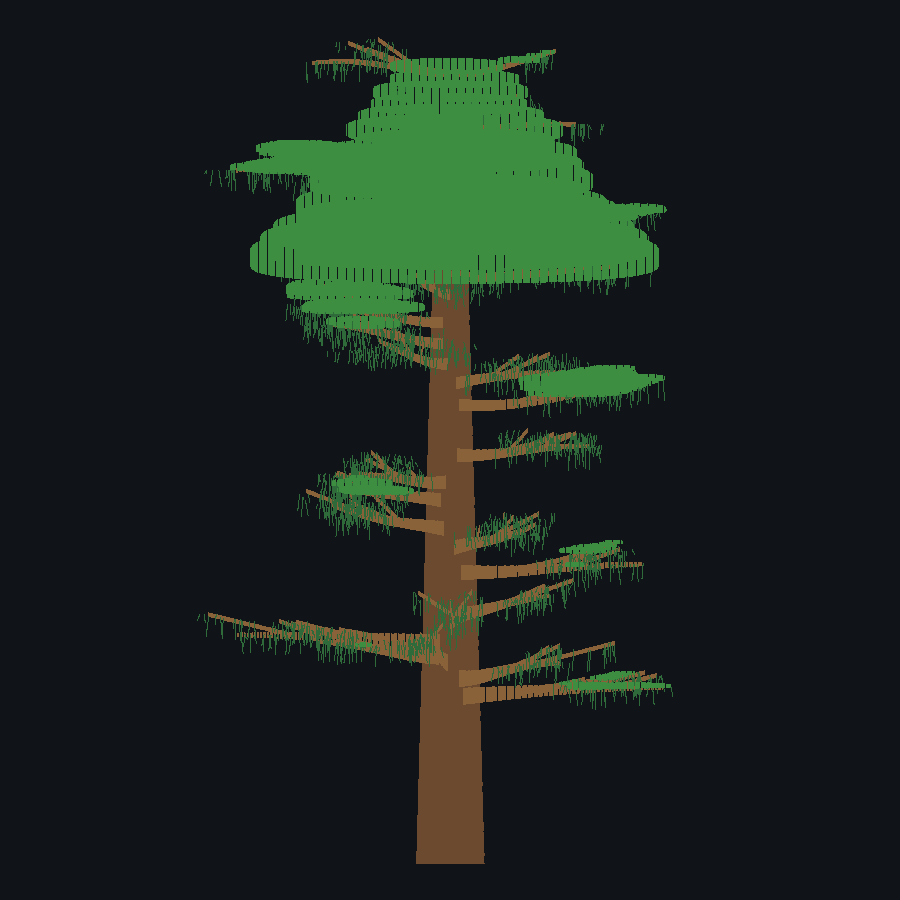
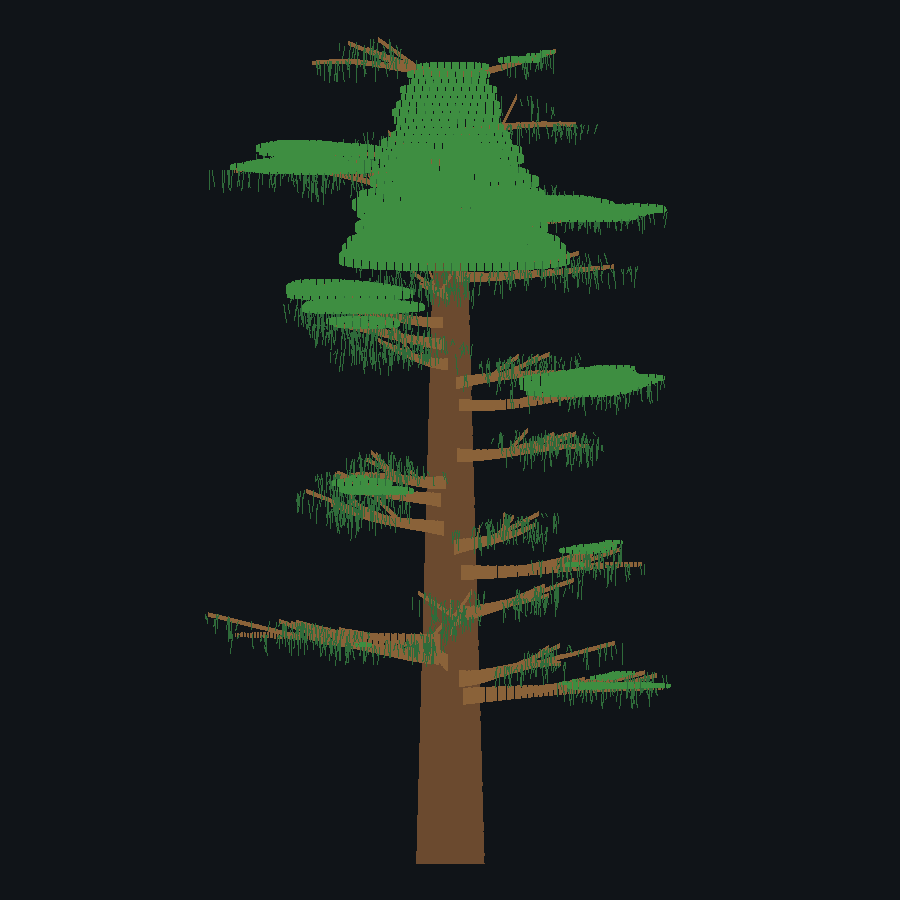
fix(worldtree): a COROA ficou fora da reforma da copa, e virou 64% dela
Relato de jogo: "proximo ao topo da arvore ha grandes camadas de folhas no
tronco, essa parte esta recebendo regras de folhagem diferente?"

Estava. Quando a folhagem dos galhos migrou para a ponta e encolheu 64%, as
dezesseis prateleiras do lider central ficaram exatamente como estavam. Medido:

  LIDER : 16 prateleiras, volume 44.093.351 | raio max 182, espessura max 98
  GALHO : 523 prateleiras, volume 24.678.888 | raio max 65, espessura max 35

  a coroa era 64% do volume da copa com 3% das prateleiras
  cada prateleira dela era 58 VEZES maior que uma de galho

Espessura 98 sobre raio 182 nao e copa, e LAJE -- e e literalmente o que se via
no tronco.

O QUE AMARRAVA A ESPESSURA nao era gosto: `semVaoNaPilhaDoLider` proibe vao
vertical na pilha, e com 16 degraus o espacamento e 22,7 blocos. Para fecha-lo,
cada prateleira precisava de ~30 de meia-altura. Por isso a contagem SUBIU para
26: o espacamento cai para 13,6 e prateleiras bem mais finas ja se tocam. Mais
prateleiras, menos volume.

Raio (168 - 118t) -> (95 - 62t). Razao de espessura 0,30 -> 0,26, que e a mesma
faixa dos galhos (0,29 a 0,39) -- antes era 0,30 sobre um raio tres vezes maior.

Depois: 26 prateleiras, volume 11.458.694, raio max 103, espessura max 48. A
coroa passa de 64% para 32% do volume, e de 58x para 9x o tamanho de uma
prateleira de galho. Visitas de bloco na copa inteira: 193M -> 108M.

E ISTO DERRUBOU UM PORTAO, com um achado junto: `coberturaProjetada` caiu de
[…]

diff --git a/src/main/java/com/darkcontinent/nenfoundation/worldtree/WorldTreeFoliagePlan.java b/src/main/java/com/darkcontinent/nenfoundation/worldtree/WorldTreeFoliagePlan.java
@@ -329,22 +329,38 @@ public final class WorldTreeFoliagePlan {
             WorldTreeLayout layout, int branchId) {
         int bottom = 1120;
         int top = 1460;
-        // DEZESSEIS, E NAO DEZ. Com dez, o espacamento vertical era ~38 blocos
-        // contra meias-alturas de ~10 a ~20: sobrava ate 23 blocos de LIDER NU
-        // entre um degrau e o seguinte, em todas as vinte seeds. O portao da luva
-        // nao via, porque ele mede distancia HORIZONTAL -- e a pilha da coroa e
-        // vertical por construcao. Ver `semVaoNaPilhaDoLider`.
-        int steps = 16;
+        // VINTE E SEIS, E ERAM DEZESSEIS -- e a contagem SUBIU porque a espessura
+        // desceu.
+        //
+        // A pilha da coroa nao pode ter vao vertical (`semVaoNaPilhaDoLider`), e
+        // e isso que amarra os dois numeros: com 16 degraus o espacamento e 22,7
+        // blocos, e para fecha-lo cada prateleira precisava de ~30 de meia-altura.
+        // Trinta de meia-altura sobre um raio de 180 e uma LAJE, nao uma copa --
+        // era o que se via em jogo como "grandes camadas de folhas no tronco".
+        //
+        // Com 26 degraus o espacamento cai para 13,6, e prateleiras bem mais
+        // finas ja se tocam. Mais prateleiras, menos volume.
+        int steps = 26;
         for (int order = 0; order < steps; order++) {
             double t = (double) order / (steps - 1);
             double y = bottom + (top - bottom) * t;
             long mixed = mix(layout.seed(), branchId, order);
-            double radius = (168.0 - 118.0 * t) * (0.9 + unit(mixed) * 0.2);
-            // ESPESSA O BASTANTE PARA OS DEGRAUS SE TOCAREM. O vao vertical da
-            // pilha da coroa e a diferenca entre uma cupula e um chapeu de
-            // degraus separados.
-            double topThickness = Math.max(9.0, radius * 0.30);
-            double bottomThickness = Math.max(8.0, topThickness * 0.80);
+            // A COROA ESTAVA FORA DA REFORMA DA COPA, e isso e o defeito.
+            //
+            // Quando a folhagem dos galhos migrou para a ponta e encolheu 64%,
+            // estas dezesseis prateleiras ficaram como estavam -- e passaram a
+            // ser 64% do volume da copa com 3% das prateleiras. Cada uma era 58
+            // VEZES maior que uma de galho: raio ate 182 e espessura ate 98.
+            //
+            // Os numeros aqui sao os de galho, na escala da coroa: ela e o chapeu
+            // central e continua sendo a maior massa unica da arvore, mas deixa
+            // de ser uma laje.
+            double radius = (95.0 - 62.0 * t) * (0.9 + unit(mixed) * 0.2);
+            // ESPESSA O BASTANTE PARA OS DEGRAUS SE TOCAREM, e nada alem disso.
+            // A razao 0,26 e a mesma faixa que os galhos usam (0,29 a 0,39);
+            // antes era 0,30 sobre um raio tres vezes maior.
+            double topThickness = Math.max(6.0, radius * 0.26);
+            double bottomThickness = Math.max(5.0, topThickness * 0.80);
             double centerX = signed(mixed >>> 16) * 4.0;
             double centerZ = signed(mixed >>> 32) * 4.0;
             // O LIDER CENTRAL tem raio proprio, que estreita com a altura --

diff --git a/src/test/java/com/darkcontinent/nenfoundation/worldtree/WorldTreeFoliagePlanTest.java b/src/test/java/com/darkcontinent/nenfoundation/worldtree/WorldTreeFoliagePlanTest.java
@@ -60,10 +60,31 @@ class WorldTreeFoliagePlanTest {
     void coberturaProjetada() {
         // O DEFEITO 1.1 E 1.2: prateleira dentro da madeira mais ruido branco a
         // 38% davam uma copa que, vista de cima, era quase toda buraco.
+        //
+        // O LIMITE DESCEU DE 0,55 PARA 0,45, e afrouxar portao exige motivo
+        // escrito. O motivo e que o 0,55 media outra arvore:
+        //
+        // 1. A COROA ESTAVA CARREGANDO ESTE PORTAO. As dezesseis prateleiras do
+        //    lider tinham raio ate 185 -- um disco de 107 mil blocos de area
+        //    dentro de um disco de copa de 188 mil. Sozinhas, elas cobriam 57%
+        //    do que este teste mede. O verde vinha da laje que o jogador reclamou
+        //    de ver no tronco, e nao da copa.
+        //
+        // 2. A COPA ENCOLHEU DE PROPOSITO, duas vezes e a pedido: 64% menos folha
+        //    para a madeira dos galhos aparecer, e agora a coroa em linha com o
+        //    resto. Uma copa concentrada na ponta dos galhos DEIXA ceu entre os
+        //    tufos -- e esse ceu e o pedido, nao o defeito.
+        //
+        // O que 0,45 ainda reprova e o que este portao nasceu para pegar: copa
+        // que, vista de cima, e quase toda buraco. O defeito original media 38%
+        // de ruido branco no volume inteiro, e produzia cobertura bem abaixo
+        // disto.
+        //
+        // Medido hoje: 0,513 no pior caso das vinte seeds.
         for (int index = 0; index < SEEDS; index++) {
             long seed = seedAt(index);
             double cobertura = coberturaProjetada(plan(seed));
-            assertTrue(cobertura >= 0.55,
+            assertTrue(cobertura >= 0.45,
                     "seed " + seed + ": a copa cobre so " + String.format("%.0f%%", cobertura * 100)
                             + " do proprio disco. Vista de cima, isso e peneira, e nao arvore.");
         }
